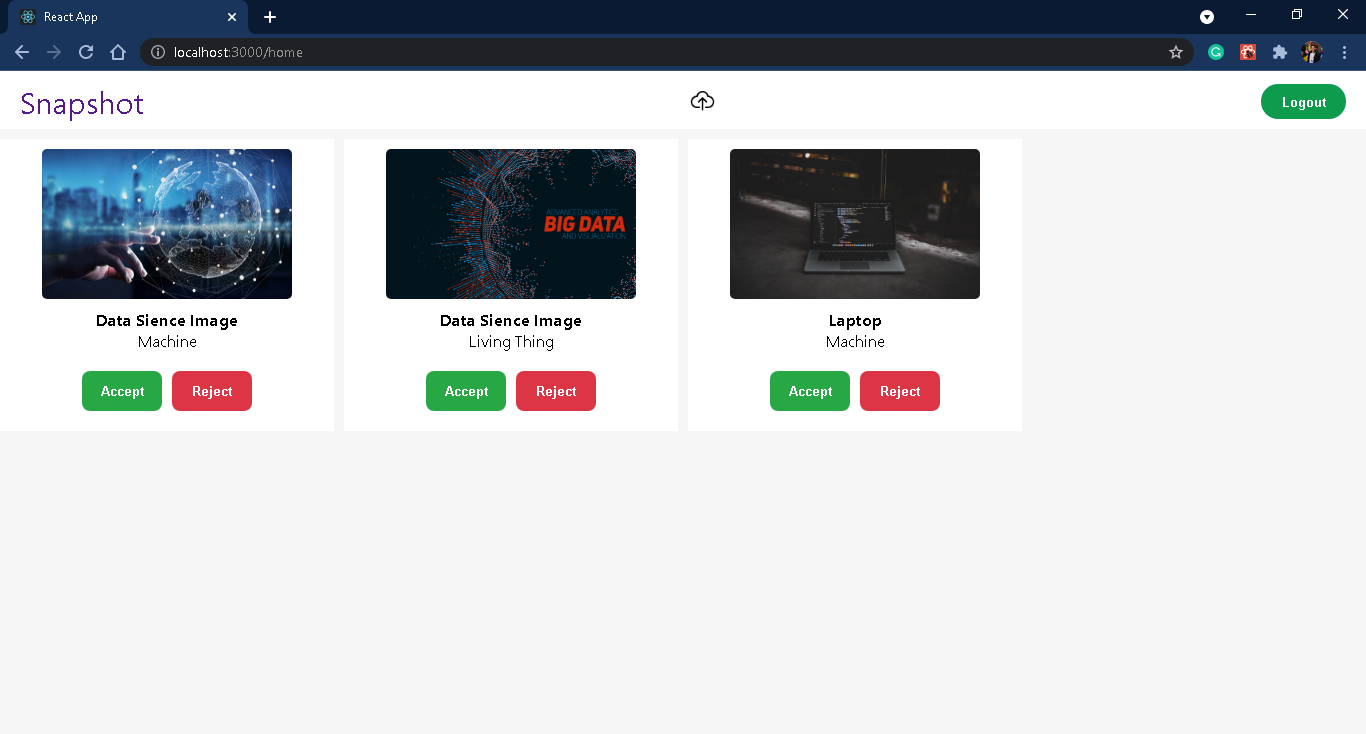
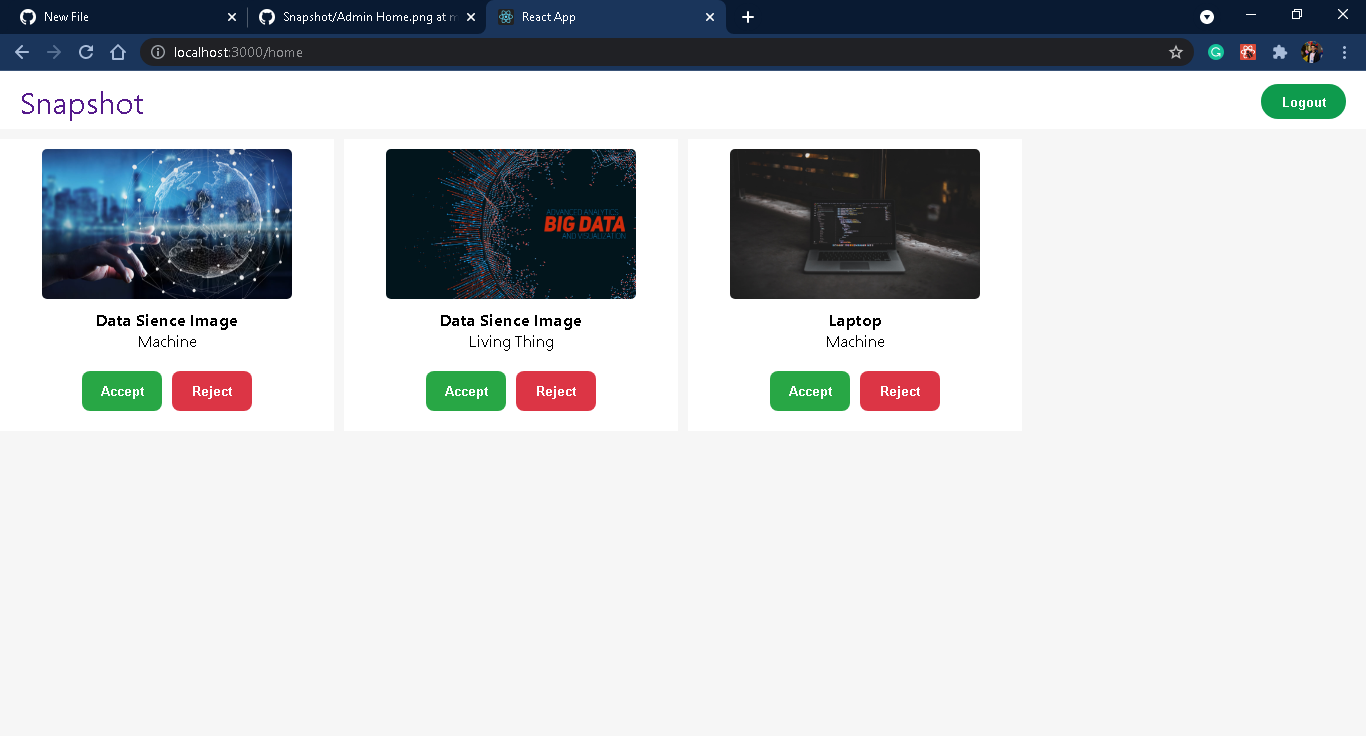
README Added

diff --git a/frontend/src/Components/Home.jsx b/frontend/src/Components/Home.jsx
@@ -32,7 +32,7 @@ class Home extends Component {
 
         return (
             <>
-                <Header showLogout={isLoggedIn} showSignup={false} showLogin={!isLoggedIn} showPost={true} />
+                <Header showLogout={isLoggedIn} showSignup={false} showLogin={!isLoggedIn} showPost={!isAdmin && isLoggedIn} />
                 <div className='images-grid' >
                     {images.map(image =>
                         <div className='image' key={image.id}>
@@ -55,7 +55,7 @@ class Home extends Component {
 
     componentDidMount() {
         const isAdmin = UserService.isAdmin();
-
+        console.log('isAdmin', isAdmin);
         if (isAdmin) {
             ImageService.getAllAdminImages()
                 .then(res => {

diff --git a/frontend/src/services/UserService.js b/frontend/src/services/UserService.js
@@ -11,8 +11,8 @@ class UserService {
     
     isAdmin(){
         const role = sessionStorage.getItem("role");
-    
-        return role == 'ROLE_USER' ? false : true; 
+        
+        return role == 'ROLE_ADMIN' ? true : false; 
     }
 
     getUserToken(){
